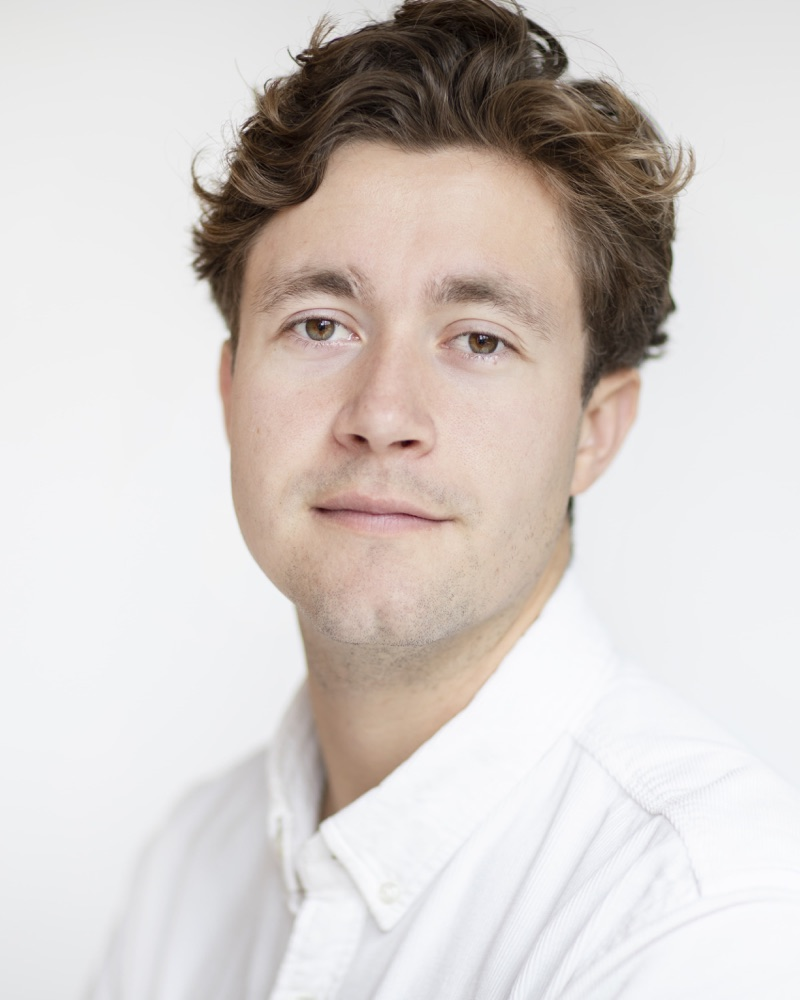
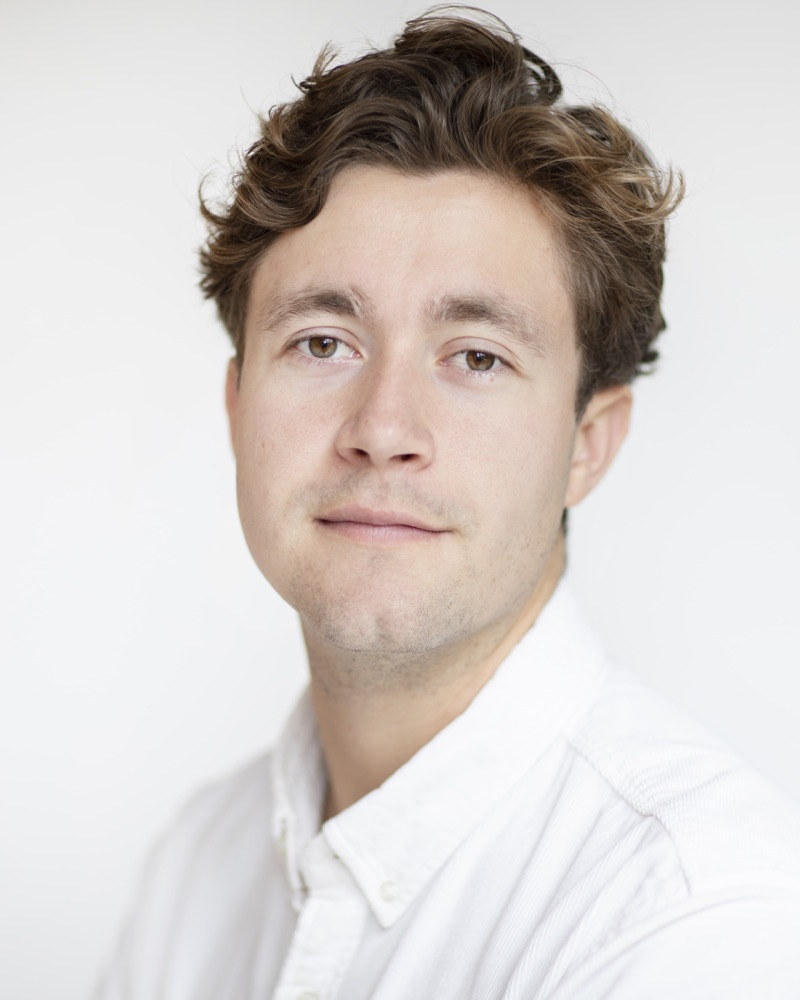
Rephrase bio, add headroom to portrait, unify draft wording

diff --git a/index.html b/index.html
@@ -4,13 +4,13 @@
 <meta charset="utf-8">
 <meta name="viewport" content="width=device-width, initial-scale=1">
 <title>Simon Donker van Heel | Econometrics PhD Candidate</title>
-<meta name="description" content="Simon Donker van Heel is a PhD candidate in econometrics at Erasmus University Rotterdam and the Tinbergen Institute. He develops filtering methods for time-varying parameter models, with applications in financial economics.">
+<meta name="description" content="Simon Donker van Heel is a PhD candidate in econometrics at Erasmus University Rotterdam and the Tinbergen Institute. He develops filtering, prediction and smoothing methods for time series models with time-varying parameters, with applications in financial economics.">
 <link rel="canonical" href="https://sdonkervanheel.github.io/">
 <link rel="icon" href="favicon.svg" type="image/svg+xml">
 
 <meta property="og:type" content="website">
 <meta property="og:title" content="Simon Donker van Heel">
-<meta property="og:description" content="PhD candidate in econometrics at Erasmus University Rotterdam and the Tinbergen Institute. Filtering methods for time series, with applications in financial economics.">
+<meta property="og:description" content="PhD candidate in econometrics at Erasmus University Rotterdam and the Tinbergen Institute. Filtering methods for time series with time-varying parameters, applied in financial economics.">
 <meta property="og:url" content="https://sdonkervanheel.github.io/">
 <meta property="og:image" content="https://sdonkervanheel.github.io/photo.jpg">
 <meta name="twitter:card" content="summary">
@@ -220,12 +220,12 @@
       <div class="kicker">PhD Candidate in Econometrics</div>
       <h1>Simon Donker van&nbsp;Heel</h1>
       <div class="affil">Erasmus University Rotterdam &amp; Tinbergen Institute</div>
-      <p class="bio">I develop statistical methods for filtering, prediction and smoothing in
-      time-varying parameter models, with applications in financial economics. My PhD is
-      supervised by Dick van Dijk and Rutger-Jan Lange. In the fall of 2025 I visited the
+      <p class="bio">I develop filtering, prediction and smoothing methods for time series
+      models with time-varying parameters, with applications in financial economics. My PhD
+      is supervised by Dick van Dijk and Rutger-Jan Lange. In the fall of 2025 I visited the
       Department of Statistics at Harvard University as a Fulbright Scholar, hosted by
       Neil Shephard.</p>
-      <p class="bio jm">I will be on the 2026&ndash;2027 academic job market.</p>
+      <p class="bio jm">On the 2026&ndash;2027 academic job market.</p>
       <div class="btnrow">
         <a class="btn" href="https://raw.githubusercontent.com/sdonkervanheel/academic-cv/main/Simon_Donker_van_Heel_CV.pdf">Download CV</a>
         <a class="btn ghost" href="mailto:donkervanheel@ese.eur.nl">Email me</a>
@@ -244,7 +244,7 @@
     <div class="paper">
       <div class="title">AdaDMQ: An adaptive filter for multiple time-varying quantiles</div>
       <div class="meta">Single-authored</div>
-      <div class="plinks"><span class="note">Draft available September 2026.</span></div>
+      <div class="plinks"><span class="note">Draft expected September 2026.</span></div>
     </div>
 
     <h3 class="sub">Working papers</h3>
